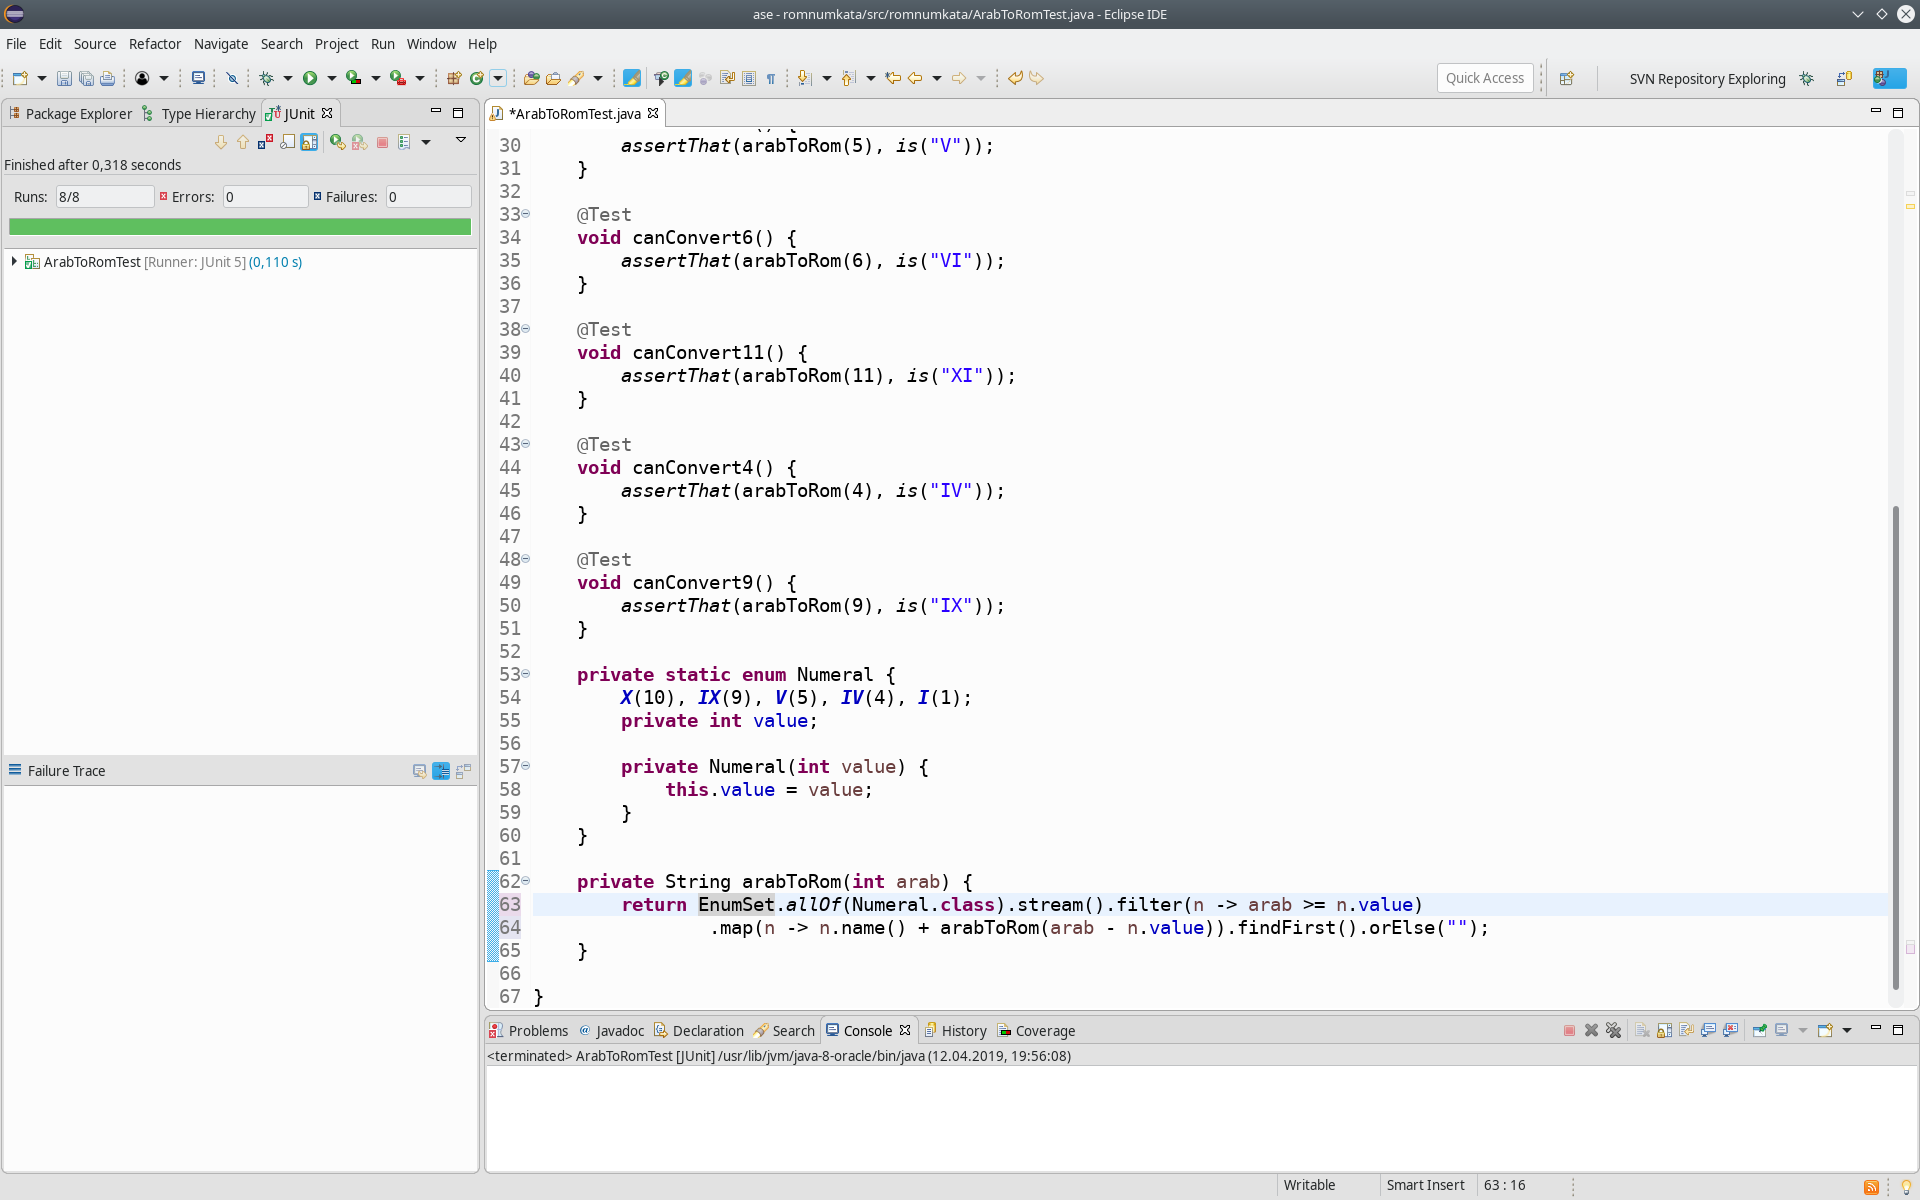
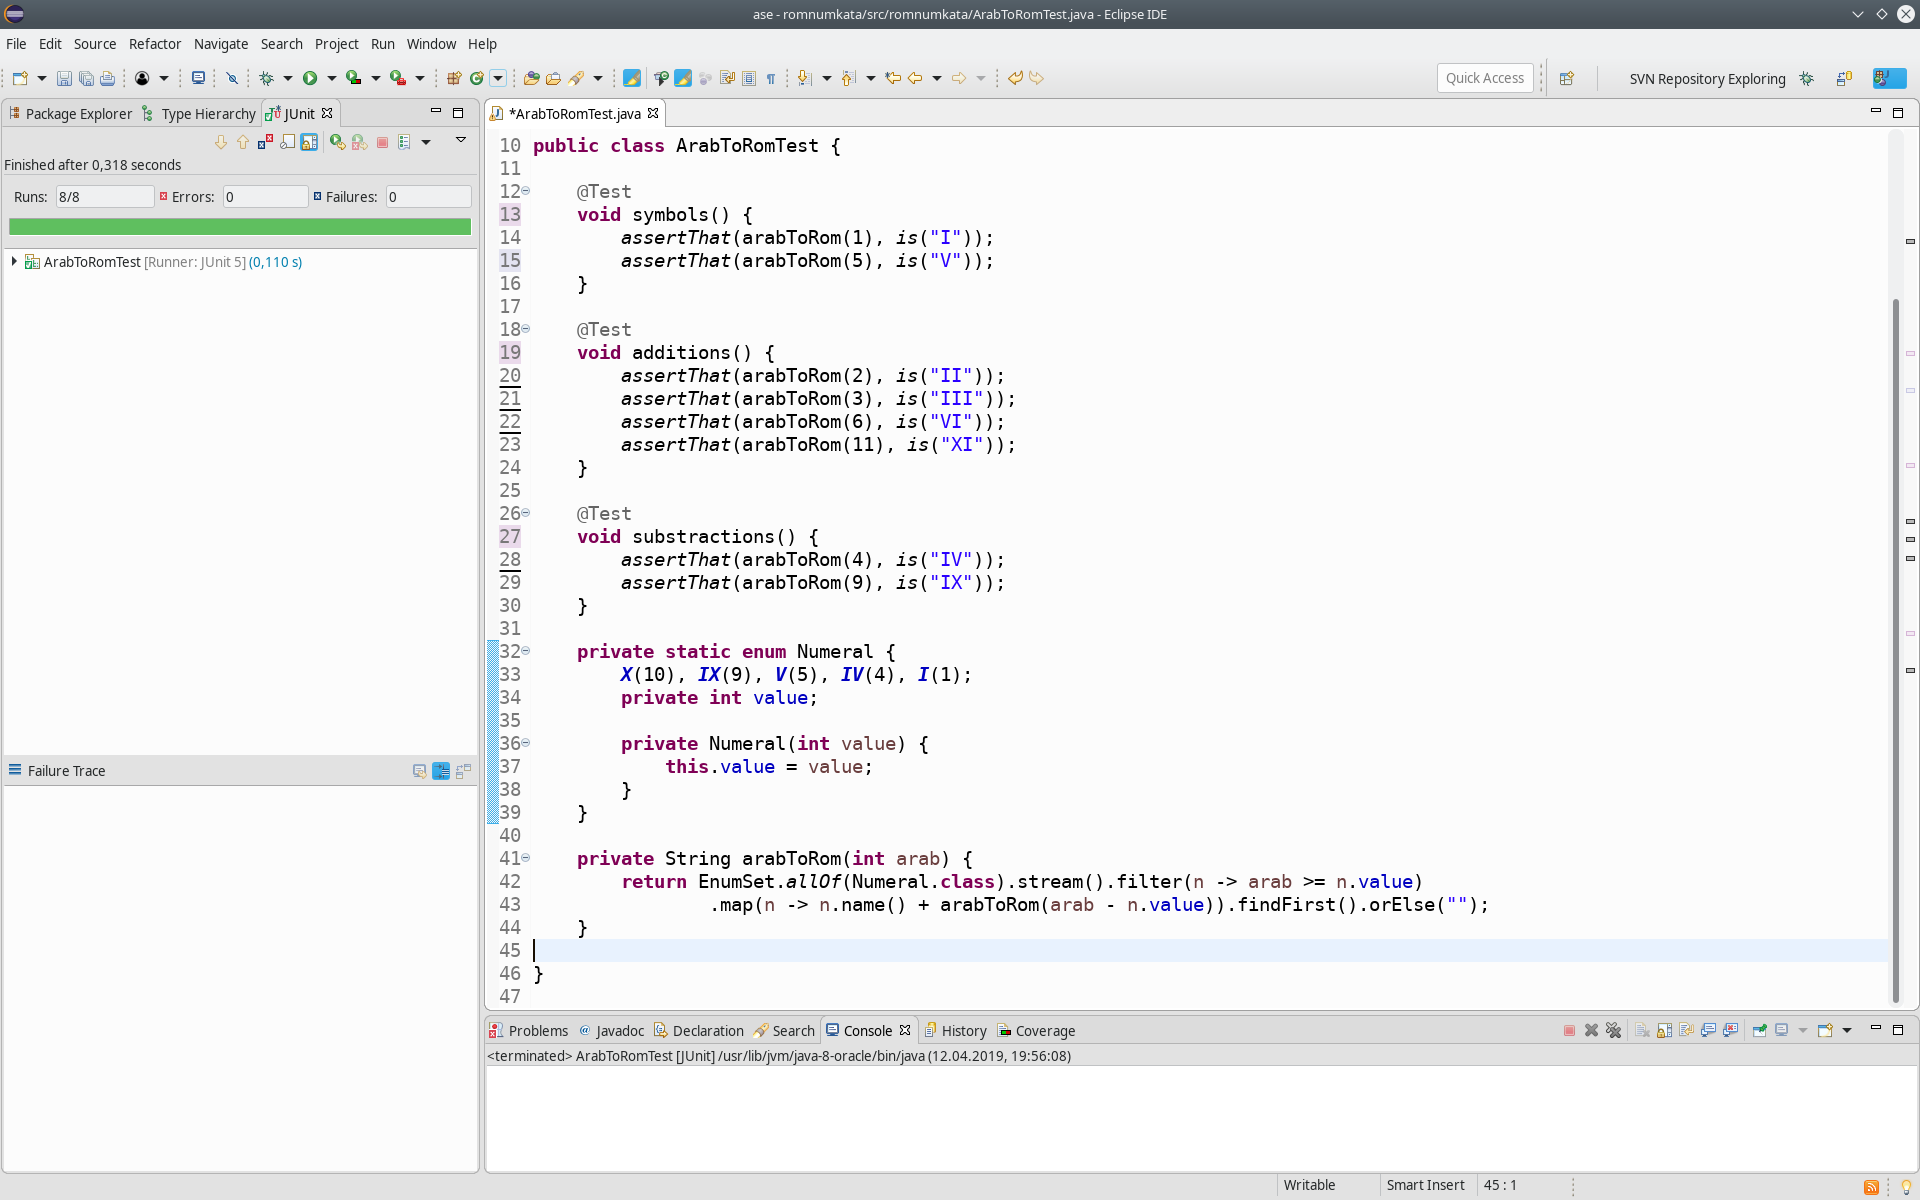
autocommit on change

diff --git a/src/romnumkata/ArabToRomTest.java b/src/romnumkata/ArabToRomTest.java
@@ -4,49 +4,28 @@ import static org.hamcrest.CoreMatchers.is;
 import static org.junit.Assert.assertThat;
 
 import java.util.EnumSet;
-import java.util.stream.Stream;
 
 import org.junit.jupiter.api.Test;
 
 public class ArabToRomTest {
 
 	@Test
-	void canConvert1() {
+	void symbols() {
 		assertThat(arabToRom(1), is("I"));
-	}
-
-	@Test
-	void canConvert2() {
-		assertThat(arabToRom(2), is("II"));
-	}
-
-	@Test
-	void canConvert3() {
-		assertThat(arabToRom(3), is("III"));
-	}
-
-	@Test
-	void canConvert5() {
 		assertThat(arabToRom(5), is("V"));
 	}
 
 	@Test
-	void canConvert6() {
+	void additions() {
+		assertThat(arabToRom(2), is("II"));
+		assertThat(arabToRom(3), is("III"));
 		assertThat(arabToRom(6), is("VI"));
-	}
-
-	@Test
-	void canConvert11() {
 		assertThat(arabToRom(11), is("XI"));
 	}
 
 	@Test
-	void canConvert4() {
+	void substractions() {
 		assertThat(arabToRom(4), is("IV"));
-	}
-
-	@Test
-	void canConvert9() {
 		assertThat(arabToRom(9), is("IX"));
 	}
 
